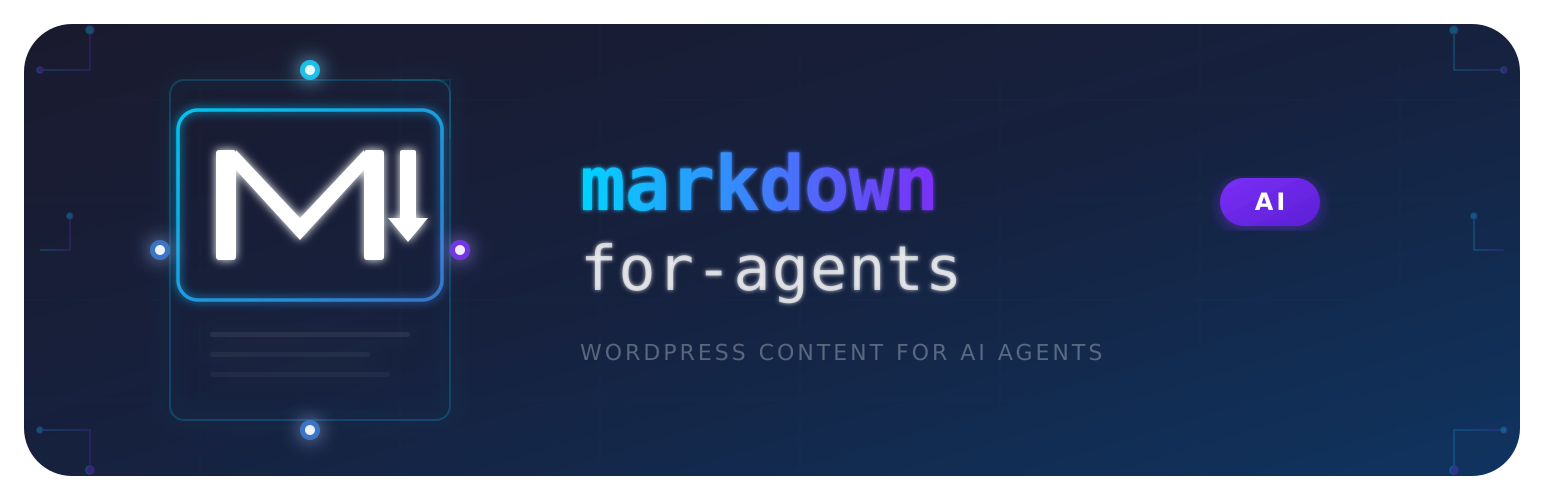
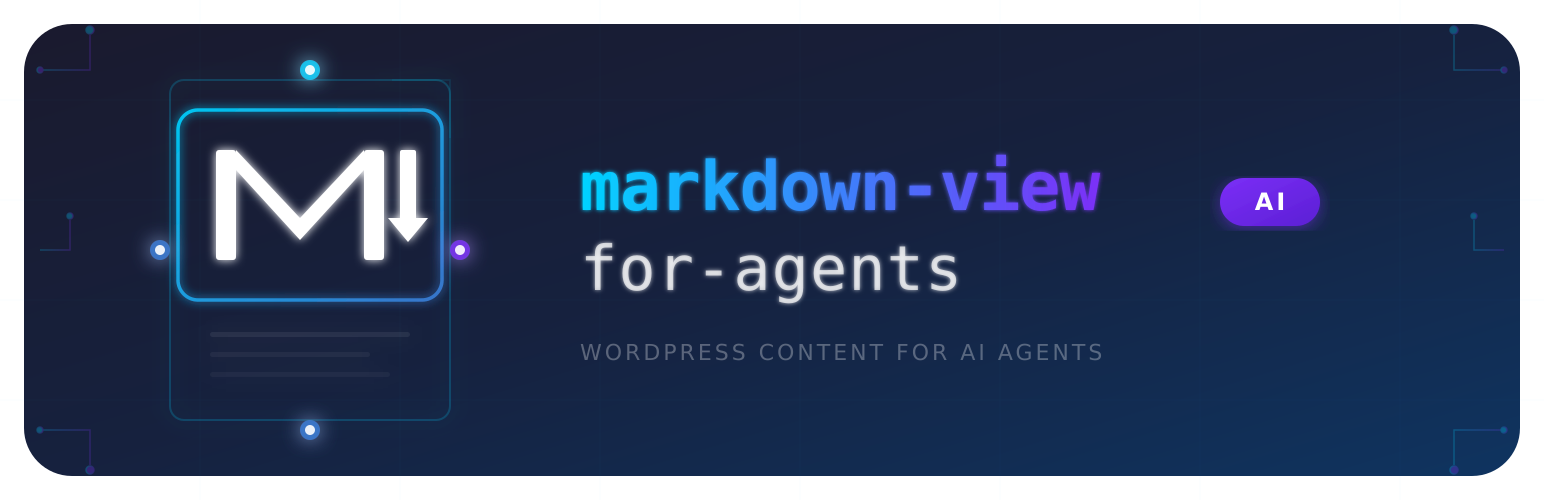
wordpress: rename plugin for marketplace submission

Changed region(s): [[0.3731, 0.3, 0.715, 0.45]]

diff --git a/assets/css/md-agent-button.css b/assets/css/md-agent-button.css
@@ -1,5 +1,5 @@
 /**
- * Markdown for AI Agents — Button styles
+ * Markdown View for AI Agents - Button styles
  *
  * Neutral design that adapts to any WordPress theme.
  */

diff --git a/markdown-view-for-ai-agents.php b/markdown-view-for-ai-agents.php
@@ -4,24 +4,24 @@
  *
  * @package MD_For_Agents
  *
- * Plugin Name:       Markdown for AI Agents
- * Plugin URI:        https://github.com/0GiS0/wp-markdown-for-agents
+ * Plugin Name:       Markdown View for AI Agents
+ * Plugin URI:        https://github.com/0GiS0/markdown-view-for-agents
  * Description:       Serve WordPress posts and pages as clean Markdown for AI agents via a button or ?format=markdown.
- * Version:           1.0.2
+ * Version:           1.0.3
  * Requires at least: 5.0
  * Requires PHP:      7.4
  * Author:            Gisela Torres
  * Author URI:        https://www.returngis.net
  * License:           GPL v2 or later
  * License URI:       https://www.gnu.org/licenses/gpl-2.0.html
- * Text Domain:       markdown-for-ai-agents
+ * Text Domain:       markdown-view-for-ai-agents
  */
 
 if ( ! defined( 'ABSPATH' ) ) {
 	exit;
 }
 
-define( 'MD_FOR_AGENTS_VERSION', '1.0.2' );
+define( 'MD_FOR_AGENTS_VERSION', '1.0.3' );
 define( 'MD_FOR_AGENTS_PLUGIN_DIR', plugin_dir_path( __FILE__ ) );
 define( 'MD_FOR_AGENTS_PLUGIN_URL', plugin_dir_url( __FILE__ ) );
 

diff --git a/includes/class-md-for-agents-button-injector.php b/includes/class-md-for-agents-button-injector.php
@@ -34,7 +34,7 @@ class MD_For_Agents_Button_Injector {
 		}
 
 		$url  = add_query_arg( 'format', 'markdown', get_permalink() );
-		$text = esc_html__( 'View as Markdown', 'markdown-for-ai-agents' );
+		$text = esc_html__( 'View as Markdown', 'markdown-view-for-ai-agents' );
 
 		$button = sprintf(
 			'<div class="md-agent-button-wrapper">' .

diff --git a/README.md b/README.md
@@ -1,24 +1,24 @@
-# Markdown for AI Agents
+# Markdown View for AI Agents
 
 <p align="center">
-  <img src=".wordpress-org/source/wp-markdown-for-agents-banner-retina.svg" alt="Markdown for AI Agents banner" />
+  <img src=".wordpress-org/source/wp-markdown-for-agents-banner-retina.svg" alt="Markdown View for AI Agents banner" />
 </p>
 
 <p align="center">
-  <a href="https://github.com/0GiS0/wp-markdown-for-agents/releases/latest"><img src="https://img.shields.io/github/v/release/0GiS0/wp-markdown-for-agents?display_name=tag&amp;label=latest%20release" alt="Latest release" /></a>
-  <a href="https://github.com/0GiS0/wp-markdown-for-agents/releases/latest/download/markdown-for-ai-agents.zip"><img src="https://img.shields.io/badge/download-latest%20ZIP-2ea44f?logo=github" alt="Download ZIP" /></a>
-  <a href="https://github.com/0GiS0/wp-markdown-for-agents/actions/workflows/ci.yml"><img src="https://img.shields.io/github/actions/workflow/status/0GiS0/wp-markdown-for-agents/ci.yml?branch=main&amp;label=ci" alt="CI" /></a>
+  <a href="https://github.com/0GiS0/markdown-view-for-agents/releases/latest"><img src="https://img.shields.io/github/v/release/0GiS0/markdown-view-for-agents?display_name=tag&amp;label=latest%20release" alt="Latest release" /></a>
+  <a href="https://github.com/0GiS0/markdown-view-for-agents/releases/latest/download/markdown-view-for-ai-agents.zip"><img src="https://img.shields.io/badge/download-latest%20ZIP-2ea44f?logo=github" alt="Download ZIP" /></a>
+  <a href="https://github.com/0GiS0/markdown-view-for-agents/actions/workflows/ci.yml"><img src="https://img.shields.io/github/actions/workflow/status/0GiS0/markdown-view-for-agents/ci.yml?branch=main&amp;label=ci" alt="CI" /></a>
   <a href="https://wordpress.org/"><img src="https://img.shields.io/badge/WordPress-5.0%2B-21759B?logo=wordpress&amp;logoColor=white" alt="WordPress 5.0+" /></a>
   <a href="https://www.php.net/"><img src="https://img.shields.io/badge/PHP-7.4%2B-777BB4?logo=php&amp;logoColor=white" alt="PHP 7.4+" /></a>
-  <a href="https://github.com/0GiS0/wp-markdown-for-agents/blob/main/LICENSE"><img src="https://img.shields.io/badge/license-GPL--2.0%2B-blue" alt="License GPL-2.0+" /></a>
+  <a href="https://github.com/0GiS0/markdown-view-for-agents/blob/main/LICENSE"><img src="https://img.shields.io/badge/license-GPL--2.0%2B-blue" alt="License GPL-2.0+" /></a>
 </p>
 
 Turn WordPress posts and pages into clean Markdown for AI agents, automation tools, and humans. Add `?format=markdown` to any singular post or page URL and the plugin returns a Markdown response with YAML frontmatter and Markdown-friendly content.
 
 > [!TIP]
-> Want the fastest install path? Download the latest plugin package here: [markdown-for-ai-agents.zip](https://github.com/0GiS0/wp-markdown-for-agents/releases/latest/download/markdown-for-ai-agents.zip)
+> Want the fastest install path? Download the latest plugin package here: [markdown-view-for-ai-agents.zip](https://github.com/0GiS0/markdown-view-for-agents/releases/latest/download/markdown-view-for-ai-agents.zip)
 
-This README is the GitHub landing page for releases, development, and creator links. The WordPress.org-specific plugin description stays in [readme.txt](https://github.com/0GiS0/wp-markdown-for-agents/blob/main/readme.txt).
+This README is the GitHub landing page for releases, development, and creator links. The WordPress.org-specific plugin description stays in [readme.txt](https://github.com/0GiS0/markdown-view-for-agents/blob/main/readme.txt).
 
 ## Why use it?
 
@@ -33,7 +33,7 @@ This README is the GitHub landing page for releases, development, and creator li
 
 This is the recommended path if you just want to use the plugin in WordPress.
 
-1. Download the latest release asset: [markdown-for-ai-agents.zip](https://github.com/0GiS0/wp-markdown-for-agents/releases/latest/download/markdown-for-ai-agents.zip)
+1. Download the latest release asset: [markdown-view-for-ai-agents.zip](https://github.com/0GiS0/markdown-view-for-agents/releases/latest/download/markdown-view-for-ai-agents.zip)
 2. In WordPress admin, go to Plugins > Add New Plugin > Upload Plugin.
 3. Upload the ZIP file and activate the plugin.
 4. Open any published post or page and click "View as Markdown", or append `?format=markdown` to the URL.
@@ -44,8 +44,8 @@ This path is better if you want to inspect, modify, or contribute to the project
 
 ```bash
 cd wp-content/plugins/
-git clone https://github.com/0GiS0/wp-markdown-for-agents.git
-cd wp-markdown-for-agents
+git clone https://github.com/0GiS0/markdown-view-for-agents.git
+cd markdown-view-for-agents
 composer install
 ```
 
@@ -58,7 +58,7 @@ chmod +x package-plugin.sh
 ./package-plugin.sh
 ```
 
-That creates `dist/markdown-for-ai-agents.zip`.
+That creates `dist/markdown-view-for-ai-agents.zip`.
 
 ## Usage
 
@@ -115,11 +115,11 @@ Article content in clean Markdown...
 
 ## Project links
 
-- [Latest release](https://github.com/0GiS0/wp-markdown-for-agents/releases/latest)
-- [Download latest ZIP](https://github.com/0GiS0/wp-markdown-for-agents/releases/latest/download/markdown-for-ai-agents.zip)
-- [Development guide](https://github.com/0GiS0/wp-markdown-for-agents/blob/main/docs/development.md)
-- [Release workflow notes](https://github.com/0GiS0/wp-markdown-for-agents/blob/main/docs/releasing.md)
-- [WordPress.org readme](https://github.com/0GiS0/wp-markdown-for-agents/blob/main/readme.txt)
+- [Latest release](https://github.com/0GiS0/markdown-view-for-agents/releases/latest)
+- [Download latest ZIP](https://github.com/0GiS0/markdown-view-for-agents/releases/latest/download/markdown-view-for-ai-agents.zip)
+- [Development guide](https://github.com/0GiS0/markdown-view-for-agents/blob/main/docs/development.md)
+- [Release workflow notes](https://github.com/0GiS0/markdown-view-for-agents/blob/main/docs/releasing.md)
+- [WordPress.org readme](https://github.com/0GiS0/markdown-view-for-agents/blob/main/readme.txt)
 
 ## Follow the creator
 
@@ -137,4 +137,4 @@ Built by [Gisela Torres](https://github.com/0GiS0). If you want more developer c
 
 ## License
 
-GPL v2 or later. See [LICENSE](https://github.com/0GiS0/wp-markdown-for-agents/blob/main/LICENSE).
+GPL v2 or later. See [LICENSE](https://github.com/0GiS0/markdown-view-for-agents/blob/main/LICENSE).

diff --git a/AGENTS.md b/AGENTS.md
@@ -12,7 +12,7 @@
 
 - Run the relevant local checks whenever you implement or modify behavior.
 - At minimum, run `composer lint:php` before opening or updating a pull request.
-- Run the local Plugin Check validation before pushing changes or updating a pull request. Use `wp --path=/srv/wordpress plugin check markdown-for-ai-agents --require=/srv/wordpress/wp-content/plugins/plugin-check/cli.php --exclude-directories=.devcontainer,.github,vendor,dist --exclude-files=.gitignore,install-git-hooks.sh,package-plugin.sh,phpcs.xml.dist,AGENTS.md` or the equivalent `plugin check` VS Code task.
+- Run the local Plugin Check validation before pushing changes or updating a pull request. Use `wp --path=/srv/wordpress plugin check markdown-view-for-ai-agents --require=/srv/wordpress/wp-content/plugins/plugin-check/cli.php --exclude-directories=.devcontainer,.github,vendor,dist --exclude-files=.gitignore,install-git-hooks.sh,package-plugin.sh,phpcs.xml.dist,AGENTS.md` or the equivalent `plugin check` VS Code task.
 - Run `composer lint` when you want the repository-standard PHPCS checks.
 - If packaging, release automation, or distributable contents changed, also verify `./package-plugin.sh` or the equivalent packaging task.
 - Do not merge changes that have not been validated locally unless there is a documented reason.
@@ -42,7 +42,7 @@ If a pull request should not appear in the changelog, use `skip-changelog`.
 ## Versioning
 
 - Use SemVer for plugin versions and git tags.
-- Keep the plugin header version and the `MD_FOR_AGENTS_VERSION` constant in `markdown-for-ai-agents.php` aligned.
+- Keep the plugin header version and the `MD_FOR_AGENTS_VERSION` constant in `markdown-view-for-ai-agents.php` aligned.
 - Decide the version bump in every release-facing pull request.
 
 SemVer rules for this repository:
@@ -66,11 +66,12 @@ Practical rule:
 Recommended release flow:
 
 1. Merge the release-ready pull request into `main`.
-2. Confirm the plugin version in `markdown-for-ai-agents.php` matches the intended release version.
+2. Confirm the plugin version in `markdown-view-for-ai-agents.php` matches the intended release version.
 3. Confirm merged pull requests included in the release have exactly one changelog category label, or `skip-changelog`.
 4. Review the current WordPress.org Detailed Plugin Guidelines before generating a new release: `https://developer.wordpress.org/plugins/wordpress-org/detailed-plugin-guidelines/`.
-5. Create and push the tag from `main`, for example `v1.0.1`.
-6. Verify the generated GitHub release body and attached ZIP.
+5. Search WordPress.org for the proposed plugin name and intended slug before any marketplace-facing release or submission to avoid collisions.
+6. Create and push the tag from `main`, for example `v1.0.1`.
+7. Verify the generated GitHub release body and attached ZIP.
 
 ## Changelog Notes
 

diff --git a/docs/releasing.md b/docs/releasing.md
@@ -20,11 +20,13 @@ git push origin v1.0.1
 
 When you push a matching tag, GitHub Actions will:
 
-- Build `dist/markdown-for-ai-agents.zip`
+- Build `dist/markdown-view-for-ai-agents.zip`
 - Build a categorized changelog from merged pull requests
 - Create a GitHub Release automatically
 - Attach the plugin ZIP to that release
 
-For consistency, keep the plugin version in `markdown-for-ai-agents.php` aligned with the tag you publish.
+For consistency, keep the plugin version in `markdown-view-for-ai-agents.php` aligned with the tag you publish.
+
+Before any WordPress.org submission or marketplace-facing release, search the directory for the proposed plugin name and slug to avoid collisions with existing listings.
 
 The changelog is configured in `release-changelog-builder-config.json` and groups pull requests according to the repository labels, so the release notes depend on using labels consistently on PRs.
